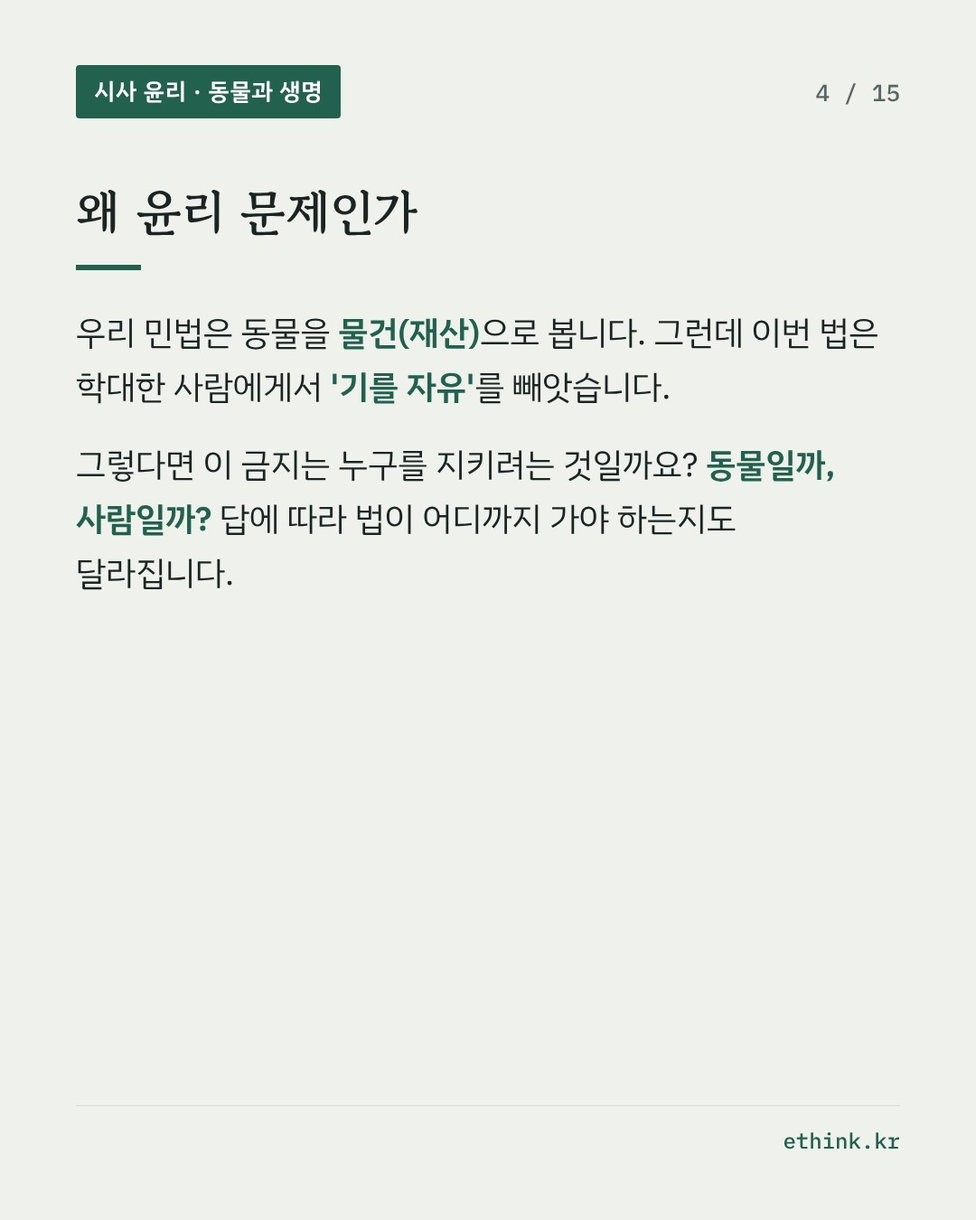
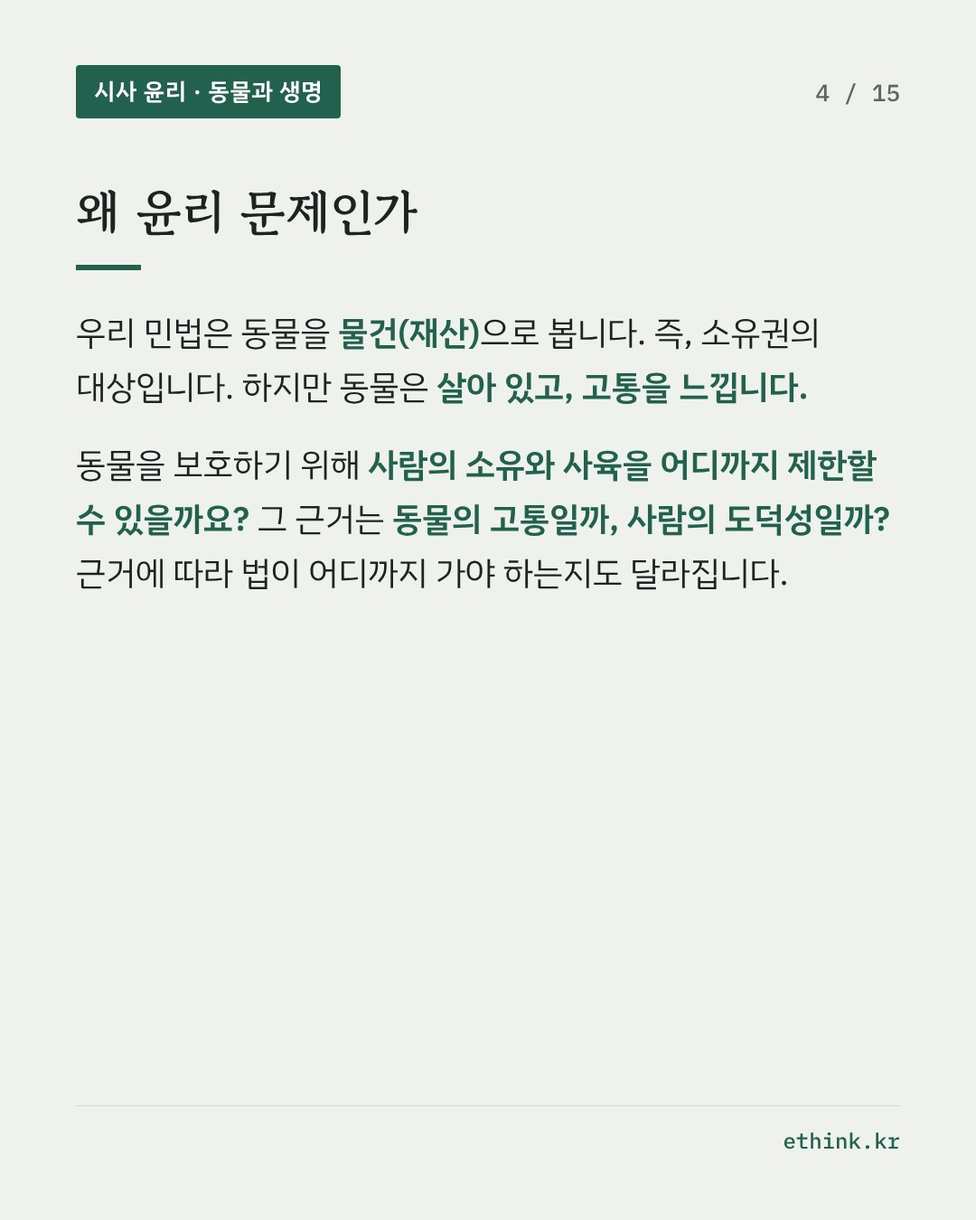
draft 11.20: GPT 검토 반영(제목, 소유권 논리, 칸트 덕론 §17, 조문 범위·집행 시점, 벤담 육식 논거, 레건 연결·마무리 질문, 카드·캡션)
Claude-Session: https://claude.ai/code/session_01KzEbiP1novw54Lmu5VVEdP

Changed region(s): [[0.0611, 0.3733, 0.9167, 0.4978], [0.0611, 0.2489, 0.8861, 0.3422]]

diff --git a/_items/2026-11-20/1.md b/_items/2026-11-20/1.md
@@ -2,13 +2,15 @@
 date: 2026-11-20 09:00:00 +0900
 num: 1
 section: 동물과 생명
-kicker: 국내 · 10월 27일 공포, 동물보호법 개정(2027년 10월 시행)
-title: 동물을 해친 사람은 동물을 기를 수 없다, 누구를 위한 금지인가?
-question: 동물을 학대한 사람이 몇 년 동안 동물을 기르지 못하게 하는 법은 동물을 위한 것일까, 사람을 위한 것일까?
-caution: 사육금지명령은 학대로 처벌받는 모든 사람에게 붙는 것이 아닙니다. 동물학대로 기소된 사람 가운데 재범 위험이 인정될 때 검사가 청구하고 법원이 정합니다. 법은 2027년 10월 28일부터 시행되고, 세부 절차를 정할 시행령은 아직 나오지 않았습니다. 학대 사진이나 영상은 수업에서 보여 주지 않습니다. 반려동물을 잃었거나 기를 형편이 안 되는 학생도 있으니, 학생에게 자기 반려동물 이야기를 하게 하지 않습니다. "동물에게 잔인한 사람은 사람에게도 잔인해진다"는 것은 칸트의 주장이고 교과서도 그런 경향을 적고 있지만, 이 글은 그 인과 관계를 따로 확인하지 않았습니다. 칸트 『윤리학 강의』의 문장은 최훈의 책에서 재인용했습니다. 벤담과 칸트의 생각을 이번 법에 대어 보는 것은 글쓴이의 적용입니다.
+kicker: 국내 · 10월 27일 공포, 동물보호법 개정(사육금지명령은 2027년 10월 시행)
+title: 동물 학대자의 사육을 금지하는 법, 누구를 위한 것인가?
+question: 동물 학대자가 몇 년 동안 동물을 기르지 못하게 하는 법은 무엇을 근거로 정당화할 수 있을까? 동물의 고통일까, 사람의 도덕성일까, 동물의 권리일까?
+caution: 사육금지명령은 학대로 처벌받는 모든 사람에게 붙지 않습니다. 법이 '동물학대범죄'로 정한 죄로 기소되고 재범 위험이 인정될 때, 검사가 청구하고 법원이 판결로 정합니다. 이 글에서 다루는 조항은 2027년 10월 28일부터 시행되고, 세부 기준을 정할 시행규칙은 아직 나오지 않았습니다. 학대 사진이나 영상은 수업에서 보여 주지 않습니다. 반려동물을 잃었거나 기를 형편이 안 되는 학생도 있으니, 자기 반려동물 이야기를 하게 하지 않습니다. 벤담·칸트·레건의 생각을 이번 법에 대어 보는 것은 글쓴이의 해석입니다. 입법 과정에서 그런 판단을 했다는 뜻은 아닙니다.
 subjects: [『윤리문제 탐구』 · 생태적 삶과 윤리적 탐구, 『현대사회와 윤리』 · 생명 윤리와 생태 윤리, 『통합사회1』 · 자연환경과 인간]
 lenses: [벤담 · 고통을 느낄 수 있는가, 칸트 · 동물에 대한 간접적 의무]
 sources:
+  - name: 국가법령정보센터, 동물보호법(시행 2027.10.28)
+    url: https://www.law.go.kr/LSW/lsInfoR.do?chrClsCd=010202&efYd=20271028&lsiSeq=291441
   - name: 경향신문 (10.2)
     url: https://khan.co.kr/article/202610021503001
   - name: 데일리벳 (10.2)
@@ -17,25 +19,23 @@ sources:
     url: https://www.mafra.go.kr/bbs/home/792/582055/artclView.do
   - name: CBS노컷뉴스 (10.26)
     url: https://www.nocutnews.co.kr/news/6596867
-  - name: 데일리벳, 동물복지국회포럼·시민단체 공동성명 (9.3)
-    url: https://www.dailyvet.co.kr/news/opinion/295719
 og_image: /assets/og/2026-11-20-1.jpg
 ---
 ##### 무슨 일이 있었나
 
-동물보호법 개정안이 10월 1일 국회 본회의를 통과했고(229명 전원 찬성), 10월 27일 공포되었습니다. 시행은 공포 1년 뒤인 2027년 10월 28일입니다. 중심은 '동물사육금지명령'입니다. 동물학대로 기소된 사람 가운데 재범 위험이 인정되면, 검사가 청구하고 법원이 받아들여 1년 이상 5년 이하 동안 동물을 기르거나 관리·보호하지 못하게 할 수 있습니다. 금지 기간에는 보호관찰을 받습니다. 명령을 어기고 다시 동물을 기르면 1년 이하의 징역 또는 1천만 원 이하의 벌금에 처하고, 지방자치단체가 그 동물의 소유권을 가져올 수 있습니다.
+동물보호법 개정안이 10월 1일 국회 본회의를 통과했고(229명 전원 찬성), 10월 27일 공포되었습니다. 중심은 '동물사육금지명령'입니다. 법이 '동물학대범죄'로 정한 죄로 기소된 사람 가운데 재범 위험이 인정되면, 검사가 청구하고 법원이 판결로 1년 이상 5년 이하 동안 동물을 기르거나 관리·보호하지 못하게 할 수 있습니다. 명령은 원칙적으로 판결이 확정된 날부터 집행됩니다(같은 범죄로 징역형을 살면 그 형을 마친 뒤부터). 금지 기간에는 보호관찰을 받습니다. 명령을 어기고 다시 동물을 기르면 1년 이하의 징역 또는 1천만 원 이하의 벌금에 처하고, 지방자치단체가 그 동물의 소유권을 가져올 수 있습니다. 이 조항들은 2027년 10월 28일부터 시행됩니다.
 
-함께 바뀐 것도 있습니다. 학대 혐의로 기소되면 확정판결이 나올 때까지 구조한 동물을 돌려주지 않아도 됩니다. 학대 전력이 있는 사람에게는 동물을 기증하거나 분양하는 것이 제한됩니다. 최소한의 사육·관리 의무를 지키지 않으면, 동물이 다치거나 병들지 않았어도 100만 원 이하의 과태료를 물릴 수 있습니다. 지나치게 짧은 목줄, 더위와 추위를 피할 곳이 없는 사육도 여기에 들어갑니다. 사육금지명령은 2022년 전부개정 때도 추진됐지만, 재산권 침해와 무죄 추정 원칙에 어긋난다는 우려로 빠졌습니다. 그 우려를 반영해 보완한 안이 이번에 통과했습니다.
+함께 바뀐 것도 있습니다. 지방자치단체가 학대 피해로 보호하고 있는 동물의 소유자가 학대 혐의로 기소되면, 확정판결이 나올 때까지 그 동물을 돌려주지 않고 보호할 수 있습니다. 지방자치단체가 소유권을 가져온 동물을 학대 전력이 있는 사람에게 기증하거나 분양하는 것도 제한됩니다. 반려동물에게 최소한의 사육 공간과 먹이, 적정한 길이의 목줄 같은 사육·관리 의무를 지키지 않으면, 동물이 다치거나 병들지 않았어도 100만 원 이하의 과태료를 물릴 수 있습니다. 사육금지명령은 2022년 전부개정 때도 추진됐습니다. 그런데 재산권 침해, 무죄 추정 원칙에 어긋난다는 우려로 빠졌습니다. 이번에 그 우려를 반영해 보완한 안이 통과했습니다.
 
 ##### 왜 윤리 문제인가
 
-우리 민법은 동물을 물건으로 봅니다. 길벗 『윤리문제 탐구』(150쪽)도 "우리나라 민법에서는 동물을 권리의 주체가 아니라 재산으로 본다"고 적습니다. 내 물건은 내 뜻대로 쓸 수 있습니다. 그런데 이번 법은 학대한 사람에게서 '기를 자유'를 최대 5년 동안 빼앗습니다. 물건이라면 이렇게까지 하지 않습니다.
+우리 민법은 동물을 물건으로 봅니다. 길벗 『윤리문제 탐구』(150쪽)도 "우리나라 민법에서는 동물을 권리의 주체가 아니라 재산으로 본다"고 적습니다. 즉, 동물은 소유권의 대상입니다. 하지만 동물은 살아 있고, 고통을 느낍니다. 이번 개정은 일정한 요건에 해당하는 사람의 사육 자체를 금지할 수 있게 했습니다.
 
-그렇다면 이 금지는 누구를 지키려는 것일까? 동물일까, 사람일까? 답에 따라 법이 어디까지 가야 하는지도 달라집니다. 동물이 겪는 고통이 이유라면, 학대만이 아니라 짧은 목줄과 비좁은 우리도 따져야 합니다. 사람의 품성이 이유라면, 동물을 함부로 대하는 사람이 잔인함에 길들지 않게 하는 데 무게가 실립니다. 이 물음을 벤담과 칸트로 읽어 봅니다.
+그렇다면 질문은 이렇게 됩니다. 동물을 보호하기 위해 사람의 소유와 사육을 어디까지 제한할 수 있을까? 그 제한의 근거는 어디에서 찾아야 할까? 근거에 따라 법이 어디까지 가야 하는지도 달라집니다. 동물이 겪는 고통이 근거라면, 학대만이 아니라 목줄 길이와 사육 공간도 따져야 합니다. 사람의 도덕성이 근거라면, 사람이 잔인함에 길들지 않게 하는 데 무게가 실립니다. 이 물음을 벤담과 칸트로 읽어 봅니다.
 
 ##### 벤담으로 읽기: 고통을 느낄 수 있는가
 
-벤담(1748~1832)은 영국의 철학자이자 법학자로, 공리주의를 세웠습니다. 공리주의는 어떤 행위나 제도가 옳은지를 그것이 낳는 쾌락과 고통으로 따집니다. 벤담은 『도덕과 입법의 원칙에 대한 서론』에서 법이 행복을 돌봐야 할 존재를 꼽습니다. 사람만 꼽지 않았습니다.
+벤담(1748~1832)은 영국의 철학자이자 법학자입니다. 공리주의를 세웠습니다. 공리주의는 행위나 제도가 옳은지를 그것이 낳는 쾌락과 고통으로 따집니다. 벤담은 『도덕과 입법의 원칙에 대한 서론』에서 법이 행복을 돌봐야 할 존재를 꼽습니다. 사람만이 아닙니다.
 
 <figure class="src">
 <blockquote>
@@ -44,18 +44,18 @@ og_image: /assets/og/2026-11-20-1.jpg
 <figcaption><span class="who">벤담</span><span class="from">출처: 벤담, 『도덕과 입법의 원칙에 대한 서론』(강준호 옮김, 아카넷)</span></figcaption>
 </figure>
 
-'사물의 부류로 격하되었다'. 동물을 물건으로 보는 오늘의 민법과 겹치는 말입니다. 벤담에게 입법은 행복을 느낄 수 있는 모든 존재의 쾌락과 고통을 셈하는 일입니다. 동물의 고통도 그 셈에 들어갑니다.
+'사물의 부류로 격하되었다.' 동물을 물건으로 보는 오늘의 민법과 겹치는 말입니다. 벤담에게 입법은 행복을 느낄 수 있는 존재의 쾌락과 고통을 함께 따지는 일입니다. 동물의 고통도 여기에 들어갑니다.
 
-그런데 벤담은 동물을 먹는 것까지 반대하지는 않았습니다. 같은 대목의 주석에서 그는 먹기 위해 죽이는 일과 괴롭히는 일을 나눕니다.
+그런데 벤담은 동물을 먹는 것까지 반대하지는 않았습니다. 같은 대목의 주석에서 그 이유를 적습니다.
 
 <figure class="src">
 <blockquote>
-<p>만약 먹힌다는 것이 전부라면, 우리가 동물 중에서 우리가 잡아먹고 싶은 것을 잡아먹어야 할 아주 타당한 이유가 있다. (…) 그러나 우리가 동물을 괴롭혀야 할 이유가 있는가? 나는 아무런 이유를 찾을 수 없다. 우리가 동물을 괴롭히지 말아야 할 이유가 있는가? 그렇다, 여러 가지가 있다.</p>
+<p>만약 먹힌다는 것이 전부라면, 우리가 동물 중에서 우리가 잡아먹고 싶은 것을 잡아먹어야 할 아주 타당한 이유가 있다. 우리는 그리하여 더 좋아지고 동물은 더 나빠지지 않기 때문이다. 동물은 우리가 가진 것처럼 미래의 고통에 대한 오래 지속되는 예감을 가지지 않는다. 우리의 손에 의하여 동물이 겪게 되는 죽음은 일반적으로 자연의 불가피한 과정에서 그것을 기다리고 있는 죽음보다 더 빠르고 고통도 덜하다. (…) 그러나 우리가 동물을 괴롭혀야 할 이유가 있는가? 나는 아무런 이유를 찾을 수 없다.</p>
 </blockquote>
 <figcaption><span class="who">벤담</span><span class="from">출처: 벤담, 『도덕과 입법의 원칙에 대한 서론』(강준호 옮김, 아카넷)</span></figcaption>
 </figure>
 
-즉, 벤담이 문제 삼은 것은 고통입니다. 이번 법은 동물이 다치지 않았어도 짧은 목줄이나 쉴 곳 없는 사육에 과태료를 물릴 수 있게 했습니다. 다친 데가 없어도 고통은 있을 수 있다는 생각입니다. 벤담은 이 주석을 이렇게 끝맺습니다.
+벤담의 판단은 이렇습니다. 동물은 사람처럼 앞날의 불행을 오래 내다보지 않는다. 사람이 주는 죽음은 자연에서 맞을 죽음보다 빠르고 덜 고통스럽다. 그래서 먹는 일과 괴롭히는 일을 나눴습니다. 이 판단에 동의할 수 있는지는 따로 따져 볼 문제입니다. 다만 벤담이 문제 삼은 것은 분명합니다. 고통입니다. 이번 법이 동물이 다치지 않았어도 사육·관리 의무 위반에 과태료를 물리는 것도 같은 쪽에 있습니다. 다친 데가 없어도 고통은 있을 수 있습니다. 벤담은 이 주석을 이렇게 맺습니다.
 
 <figure class="src">
 <blockquote>
@@ -64,13 +64,13 @@ og_image: /assets/og/2026-11-20-1.jpg
 <figcaption><span class="who">벤담</span><span class="from">출처: 벤담, 『도덕과 입법의 원칙에 대한 서론』(강준호 옮김, 아카넷)</span></figcaption>
 </figure>
 
-벤담은 이 문장 바로 앞에서 노예제를 꺼냅니다. 프랑스인들은 피부가 검다는 것이 사람을 괴롭혀도 될 이유가 아님을 이미 깨달았습니다. 언젠가는 다리의 수나 털도 그런 이유가 될 수 없음을 알게 되리라는 것입니다. 벤담이 그은 선은 이성도 말도 아닌, 고통을 느끼는 능력입니다.
+벤담은 이 문장 바로 앞에서 노예제를 꺼냅니다. 프랑스인들이 피부가 검다는 것이 사람을 괴롭혀도 될 이유가 아님을 깨달았다고 적고, 언젠가는 다리의 수나 털도 그런 이유가 될 수 없음을 알게 되리라고 씁니다. 벤담이 그은 선은 이성도, 말도 아닙니다. 고통을 느끼는 능력입니다.
 
-이 생각을 사육금지명령에 대어 보면, 금지의 근거는 동물이 앞으로 겪을 고통입니다. 학대한 사람에게서 동물을 떼어 놓으면 생길 고통이 줄어듭니다. 다만 공리주의는 학대한 사람이 받는 불이익도 셈에 넣습니다. '재범 위험이 인정될 때', '최대 5년'이라는 조건은 그 셈을 거친 결과로 읽을 수 있습니다.
+이 생각을 사육금지명령에 대어 봅니다. 학대한 사람에게서 동물을 떼어 놓으면, 동물이 다시 학대받을 위험과 그에 따른 고통을 줄일 수 있습니다. 공리주의는 여기에 학대한 사람이 받는 불이익도 함께 올려놓습니다. 그렇게 보면 '재범 위험이 인정될 때', '최대 5년'이라는 조건은 줄어드는 고통과 사육 제한의 불이익을 견준 결과로 해석할 수 있습니다(실제 입법 과정에서 그런 계산을 했다는 뜻은 아닙니다).
 
 ##### 칸트로 읽기: 동물을 대하는 모습에 사람이 드러난다
 
-칸트(1724~1804)는 독일의 철학자입니다. 칸트는 사람을 수단으로만 대하지 말고 목적으로 대하라고 했습니다. 그 근거는 이성과 자율성, 즉 스스로 도덕 법칙을 세우고 따르는 능력입니다. 칸트는 동물에게 그 능력이 없다고 보았습니다. 그렇다면 동물은 아무렇게나 대해도 될까? 칸트의 답은 '아니다'입니다. 다만 그 이유가 벤담과 다릅니다. 칸트는 『윤리학 강의』에서 이렇게 말합니다.
+칸트(1724~1804)는 독일의 철학자입니다. 칸트는 사람을 수단으로만 대하지 말고 목적으로 대하라고 했습니다. 근거는 이성과 자율성, 즉 스스로 도덕 법칙을 세우고 따르는 능력입니다. 칸트는 동물에게 그 능력이 없다고 보았습니다. 그렇다면 동물은 아무렇게나 대해도 될까? 칸트의 답은 '아니다'입니다. 다만 근거가 벤담과 다릅니다. 칸트는 『윤리학 강의』에서 이렇게 말합니다.
 
 <figure class="src">
 <blockquote>
@@ -79,7 +79,7 @@ og_image: /assets/og/2026-11-20-1.jpg
 <figcaption><span class="who">칸트</span><span class="from">출처: 칸트, 『윤리학 강의』 · 최훈, 『동물을 위한 윤리학』(사월의책)에서 재인용</span></figcaption>
 </figure>
 
-직접적 의무는 그 존재 자체에게 지는 의무입니다. 간접적 의무는 그 존재를 대하는 방식이 결국 사람에 대한 의무와 이어져 있어서 생기는 의무입니다. 칸트는 늙은 개를 예로 듭니다. 오랫동안 주인을 섬긴 개가 늙었다고 총으로 쏘아 버린 사람이 있다고 해 봅시다.
+직접적 의무는 그 존재 자체에게 지는 의무입니다. 간접적 의무는 그 존재를 대하는 방식이 사람에 대한 의무와 이어져 있어서 생기는 의무입니다. 칸트는 늙은 개를 예로 듭니다. 오랫동안 주인을 섬긴 개가 늙었다고 총으로 쏘아 버린 사람이 있다고 해 봅시다.
 
 <figure class="src">
 <blockquote>
@@ -88,16 +88,11 @@ og_image: /assets/og/2026-11-20-1.jpg
 <figcaption><span class="who">칸트</span><span class="from">출처: 칸트, 『윤리학 강의』 · 최훈, 『동물을 위한 윤리학』(사월의책)에서 재인용</span></figcaption>
 </figure>
 
-칸트에게 그 사람의 잘못은 개를 해친 데 있지 않습니다. 자기 안의 인간다움을 해친 데 있습니다. 이 생각을 이번 법에 대어 보면, 금지는 사람을 위한 것이 됩니다. 학대한 사람이 다시 동물을 기르며 잔인함에 길드는 것을 막고, 그 잔인함이 사람에게 옮겨 가는 것을 막는 일입니다. 길벗 『윤리문제 탐구』도 반려동물 학대를 다루며 비슷하게 적습니다.
+칸트는 개를 해친 행위가 그른 최종 근거를 사람의 도덕성에서 찾습니다. 뒤에 쓴 『윤리형이상학』 「덕론」(§17)에서는 이 생각을 '자기 자신에 대한 의무'로 정리합니다. 동물을 잔혹하게 다루면 동물의 고통에 함께 아파하는 마음이 무뎌지고, 다른 사람과의 관계에서 도덕을 받쳐 주는 자연스러운 성향이 약해진다는 것입니다. 그러니 겉으로 사람에게 친절한 사람이라도, 동물을 학대하면 자기 안의 도덕적 성향을 해칩니다.
 
-<figure class="src">
-<blockquote>
-<p>이러한 사람들은 '내가 값을 치르고 사왔으니 괴롭히는 것도 내 마음이다.'라며 잔혹한 행동을 정당화한다. 이는 반려동물을 생명체라고 인식하지 않고, 물건이나 상품으로 취급하기 때문이다. 이러한 인식은 생명 경시로 이어진다. 반려동물을 함부로 대하는 사람은 동물을 넘어 인간의 생명도 존중하지 않을 경향이 높다.</p>
-</blockquote>
-<figcaption><span class="from">출처: 『윤리문제 탐구』(길벗) 144쪽</span></figcaption>
-</figure>
+이 생각을 이번 법에 대어 보면, 사육금지명령은 사람의 도덕성을 지키는 장치로도 읽힙니다. 학대한 사람이 잔인함에 더 길들지 않게 하는 것입니다. 길벗 『윤리문제 탐구』(144쪽)도 반려동물 학대를 다루며 "반려동물을 함부로 대하는 사람은 동물을 넘어 인간의 생명도 존중하지 않을 경향이 높다"고 적습니다.
 
-그런데 칸트의 설명에는 빈틈이 있습니다. 동물에게는 잔인하면서 사람에게는 친절한 사람이 있다면? 칸트의 논리로는 그 사람의 학대를 막을 근거가 약해집니다. 칸트의 셈에는 동물이 겪는 고통이 들어가지 않습니다. 레건은 칸트의 의무론을 이어받으면서도 이 지점을 넘어섰습니다. 길벗 『윤리문제 탐구』는 동물의 도덕적 지위를 이렇게 정리합니다.
+그런데 질문이 남습니다. 동물 학대가 그른 까닭을 사람의 도덕성에서만 찾는다면, 동물이 겪는 고통과 피해 자체를 충분히 설명할 수 있을까? 칸트는 동물의 고통을 외면하지 않습니다. 다만 그것을 동물 자체에 대한 직접적 의무의 근거로 삼지는 않습니다. 레건은 바로 이 지점에 이의를 제기합니다. 사람에게만 직접적인 도덕적 의무를 인정하는 관점에 대한 이의입니다. 길벗 『윤리문제 탐구』는 동물의 도덕적 지위를 이렇게 정리합니다.
 
 <figure class="src">
 <blockquote>
@@ -106,38 +101,38 @@ og_image: /assets/og/2026-11-20-1.jpg
 <figcaption><span class="from">출처: 『윤리문제 탐구』(길벗) 151쪽</span></figcaption>
 </figure>
 
-칸트는 동물을 '목적을 위한 수단'이라고 했습니다. 레건은 바로 그 생각을 뒤집어, 동물도 수단으로만 대해서는 안 되는 '삶의 주체'라고 보았습니다. 같은 법을 놓고 세 사람이 보는 곳이 다릅니다. 벤담은 동물이 겪을 고통을, 칸트는 사람의 품성을, 레건은 동물이 지닌 권리를 봅니다.
+레건은 '삶의 주체'인 동물도 고유한 가치를 지니며 존중받아야 한다고 보았습니다. 그렇다면 같은 법을 놓고 근거는 셋입니다. 벤담은 동물이 겪을 고통을, 칸트는 사람의 도덕성을, 레건은 동물이 지닌 권리를 봅니다. 셋은 서로를 밀어내지 않습니다. 한 법이 동물의 고통을 줄이면서 사람의 도덕적 태도도 지킬 수 있습니다. 다만 어떤 근거를 앞세우느냐에 따라, 법이 어디까지 가야 하는지에 대한 판단이 달라집니다.
 
 ##### 수업에서 쓰는 법
 
-이 사례에서는 "동물 학대를 막는 법은 누구를 위한 것인가"를 묻습니다. 벤담은 동물의 고통으로, 칸트는 사람의 품성으로 답합니다. 수치와 조항은 기사와 정부 자료로 확인한 것만 씁니다. 먼저 짚어 둡니다. 사육금지명령은 학대로 기소되고 재범 위험이 인정된 사람에게 법원이 내리는 것입니다. 학대 신고만으로 붙지 않습니다.
+이 사례에서는 "동물 학대자의 사육을 금지하는 법은 무엇으로 정당화되는가"를 묻습니다. 먼저 짚어 둡니다. 사육금지명령은 법이 정한 동물학대범죄로 기소되고 재범 위험이 인정된 사람에게 법원이 판결로 내립니다. 학대 신고만으로 붙지 않습니다. 그리고 법의 효과와 그 효과를 정당화하는 근거는 나누어 봅니다.
 
 <table class="tbl tbl-cols">
-<colgroup><col style="width:28%"><col style="width:36%"><col style="width:36%"></colgroup>
-<thead><tr><th>바뀐 법</th><th>벤담으로 보면</th><th>칸트로 보면</th></tr></thead>
+<colgroup><col style="width:25%"><col style="width:25%"><col style="width:25%"><col style="width:25%"></colgroup>
+<thead><tr><th>바뀐 법</th><th>벤담으로 보면</th><th>칸트로 보면</th><th>레건으로 보면</th></tr></thead>
 <tbody>
-<tr class="tbl-ex"><td>사육금지명령(1~5년, 재범 위험이 인정될 때)</td><td>예: 동물이 다시 겪을 고통을 막는다. 학대한 사람의 불이익과 견주어 기간을 정한다</td><td>예: 잔인함에 길드는 것을 막아 사람에 대한 의무를 지키게 한다</td></tr>
-<tr><td>확정판결 전까지 피해 동물을 돌려주지 않음</td><td></td><td></td></tr>
-<tr><td>다치지 않았어도 사육·관리 의무 위반에 과태료(짧은 목줄, 쉴 곳 없는 사육)</td><td></td><td></td></tr>
+<tr class="tbl-ex"><td>사육금지명령(1~5년, 재범 위험이 인정될 때)</td><td>예: 다시 학대받을 위험과 고통을 줄인다. 학대한 사람의 불이익과 견준다</td><td>예: 동물을 잔혹하게 다루며 무뎌지는 도덕적 성향을 지킨다</td><td>예: 삶의 주체인 동물을 수단으로 다룬 사람에게서 그 동물을 지킨다</td></tr>
+<tr><td>확정판결 전까지 피해 동물을 돌려주지 않고 보호할 수 있음</td><td></td><td></td><td></td></tr>
+<tr><td>다치지 않았어도 사육·관리 의무 위반에 과태료(사육 공간, 먹이, 목줄 길이)</td><td></td><td></td><td></td></tr>
 </tbody>
 </table>
 
 <figure class="fig">
 <p class="fig-title">수업 흐름</p>
 <ol class="flow">
-<li><span class="flow-step">사실 확인</span><br>
-<span class="flow-desc">바뀐 조항을 정리하고, 사육금지명령이 붙는 조건(기소, 재범 위험, 법원의 판단)과 시행 시기를 확인한다. 민법이 동물을 물건으로 본다는 점(길벗 『윤리문제 탐구』 150쪽)도 함께 읽는다</span></li>
+<li><span class="flow-step">조항 읽기</span><br>
+<span class="flow-desc">국가법령정보센터에서 바뀐 조항을 찾아, 사육금지명령이 붙는 조건(동물학대범죄로 기소, 재범 위험, 법원의 판결)과 집행 시점을 정리한다. 민법이 동물을 물건으로 본다는 점(길벗 『윤리문제 탐구』 150쪽)도 함께 읽는다</span></li>
 <li><span class="flow-step">벤담으로 읽기</span><br>
-<span class="flow-desc">"문제는 고통을 느낄 수 있는가이다"를 읽고, 다치지 않았어도 과태료를 물리는 조항을 벤담의 눈으로 설명한다. 벤담이 먹는 것과 괴롭히는 것을 나눈 까닭도 따져 본다</span></li>
+<span class="flow-desc">"문제는 고통을 느낄 수 있는가이다"를 읽고, 다치지 않았어도 과태료를 물리는 조항을 벤담의 눈으로 설명한다. 벤담이 먹는 일과 괴롭히는 일을 나눈 근거에 동의할 수 있는지도 따져 본다</span></li>
 <li><span class="flow-step">칸트로 읽기</span><br>
-<span class="flow-desc">늙은 개를 쏜 사람의 예를 읽고, 칸트가 그 사람을 비판하는 이유를 '직접적 의무'와 '간접적 의무'로 설명한다. 길벗 『윤리문제 탐구』 144쪽과 견주어 본다</span></li>
-<li><span class="flow-step">표 채우기와 토론</span><br>
-<span class="flow-desc">표의 빈칸을 모둠이 채운다. 이어서 "동물에게는 잔인하지만 사람에게는 친절한 사람이 있다면, 칸트는 그의 학대를 막을 수 있는가"를 토론하고, 길벗 『윤리문제 탐구』 151쪽의 레건으로 마무리한다</span></li>
+<span class="flow-desc">늙은 개를 쏜 사람의 예를 읽고, 칸트가 그 행위를 비판하는 근거를 '직접적 의무'와 '간접적 의무'로 설명한다. 길벗 『윤리문제 탐구』 144쪽과 견주어 본다</span></li>
+<li><span class="flow-step">근거 견주기</span><br>
+<span class="flow-desc">길벗 『윤리문제 탐구』 151쪽의 싱어·레건까지 읽고 표의 빈칸을 모둠이 채운다. 어떤 근거가 가장 설득력 있는지, 그 근거로 설명하기 어려운 사례는 무엇인지 토론한다</span></li>
 </ol>
 </figure>
 
-첫 줄은 예시로 보여 주고, 나머지는 모둠이 채웁니다. 평가에서는 세 가지를 봅니다. 벤담의 '고통을 느낄 수 있는가'와 칸트의 '간접적 의무'를 조항에 정확히 적용했는가. 법이 정한 사실과 자신의 해석을 나누었는가. 반론에 근거를 들어 답했는가. 어느 쪽을 골랐는지는 따지지 않습니다.
+첫 줄은 예시로 보여 주고, 나머지는 모둠이 채웁니다. 평가에서는 세 가지를 봅니다. 벤담의 '고통을 느낄 수 있는가', 칸트의 '간접적 의무', 레건의 '삶의 주체'를 조항에 정확히 적용했는가. 법이 정한 사실과 자신의 해석을 나누었는가. 반론에 근거를 들어 답했는가. 어느 쪽을 골랐는지는 따지지 않습니다.
 
-이 사례로 탐구 보고서를 쓰려는 학생에게는 두 가지 주제를 권합니다. 첫째, 2022년 전부개정 때 사육금지명령이 빠진 이유(재산권, 무죄 추정)와 이번에 보완된 내용을 비교해, 동물 보호와 사람의 기본권이 부딪칠 때 법이 어떻게 균형을 잡는지 정리하는 주제입니다. 둘째, 벤담·칸트·레건의 관점으로 '동물은 물건이 아니다'라는 민법 개정 논의를 평가하는 주제입니다.
+이 사례로 탐구 보고서를 쓰려는 학생에게는 두 가지 주제를 권합니다. 첫째, 2022년 전부개정 때 사육금지명령이 빠진 이유(재산권, 무죄 추정)와 이번에 보완된 절차(검사의 청구, 법원의 판결, 재범 위험 판단)를 비교하는 주제입니다. 동물 보호와 사람의 기본권이 부딪칠 때 법이 어떻게 균형을 잡는지 정리합니다. 둘째, 벤담·칸트·레건의 관점으로 '동물은 물건이 아니다'라는 민법 개정 논의를 평가하는 주제입니다.
 
-마무리 질문은 학생에게 돌려줍니다. 동물을 지키는 법이 사람을 위한 것이라면, 동물은 무엇으로 지켜야 할까. 동물을 위한 것이라면, 그 법은 어디까지 가야 할까.
+마무리 질문은 학생에게 돌려줍니다. 같은 동물 보호 조치라도 고통의 감소, 사람의 도덕성, 동물의 권리 가운데 무엇을 근거로 삼느냐에 따라 판단이 달라집니다. 나는 어떤 근거가 가장 설득력 있다고 보는가. 그 근거로 설명하기 어려운 사례는 없는가.
